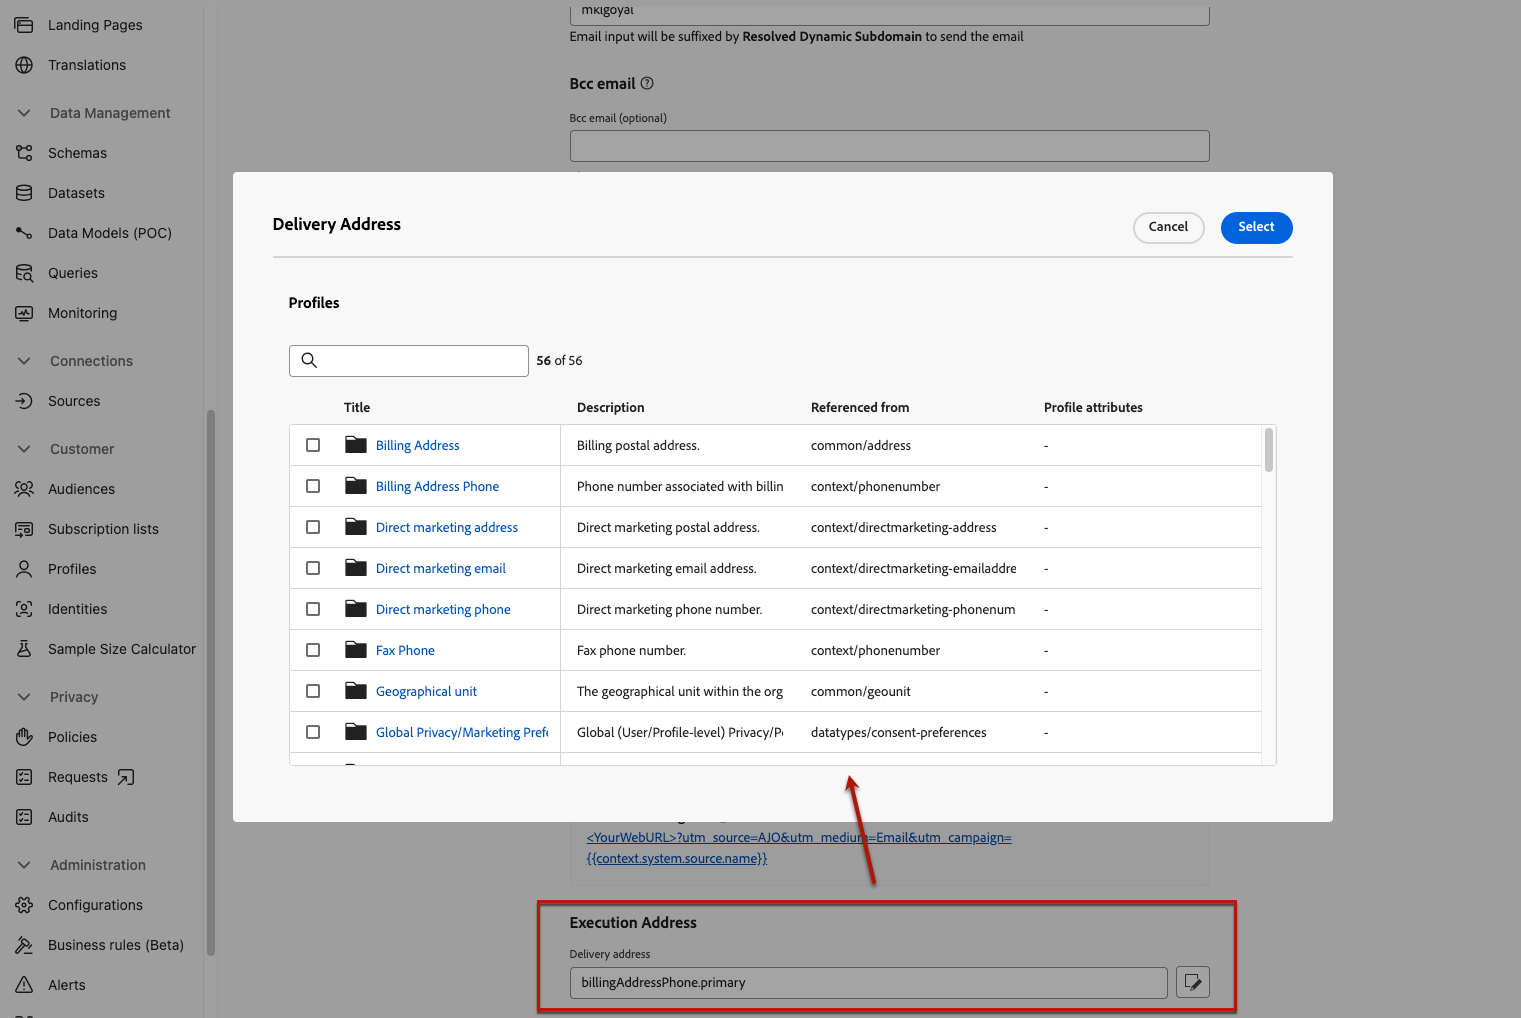
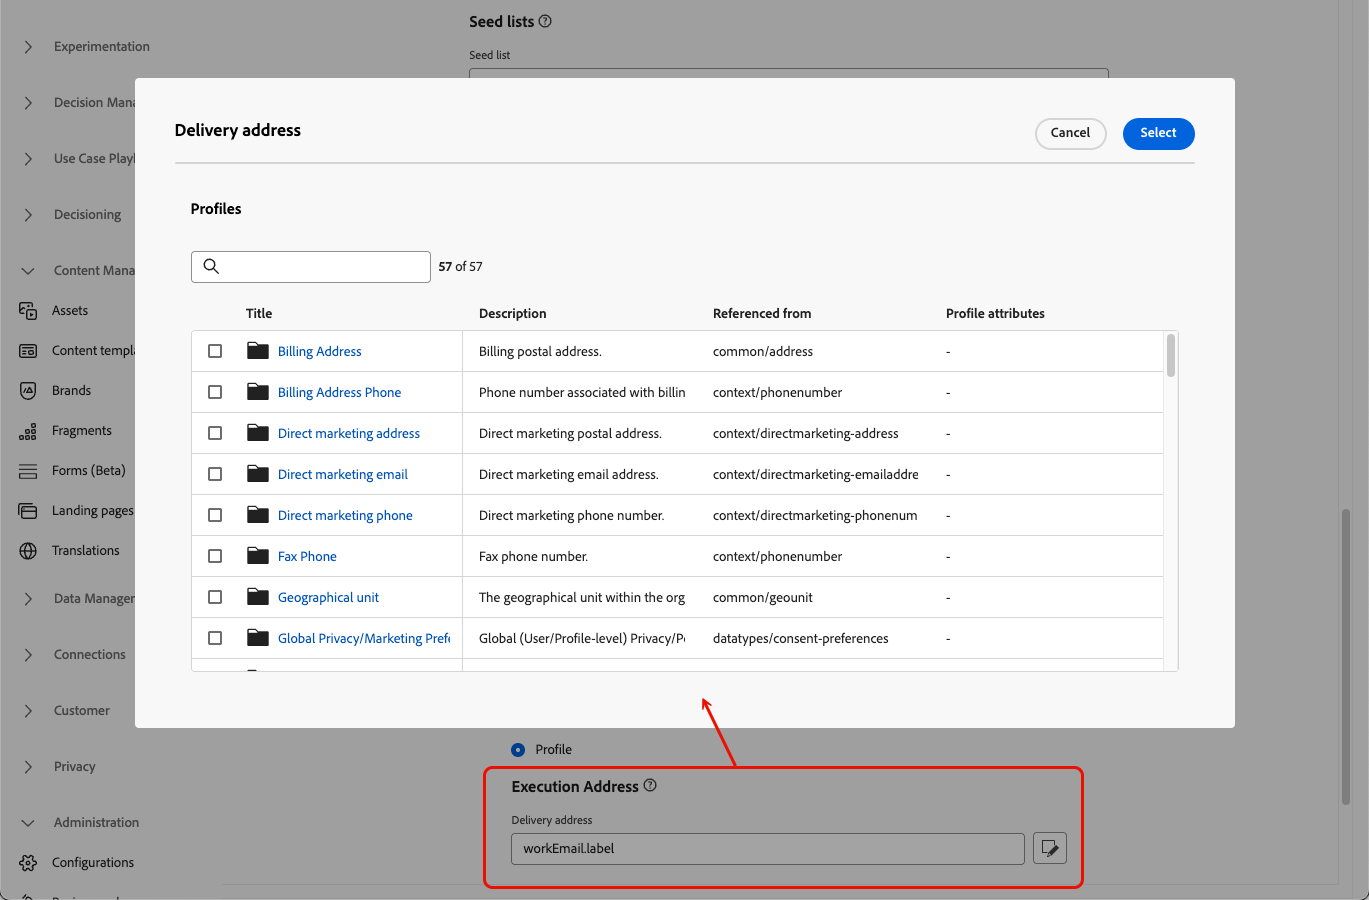
DOCAC-13526 - Execution fields Email + SMS updates

diff --git a/help/using/configuration/primary-email-addresses.md b/help/using/configuration/primary-email-addresses.md
@@ -30,6 +30,10 @@ To check the fields that are currently used by default, access the **[!UICONTROL
 
 ![](assets/primary-address-execution-fields.png)
 
+>[!NOTE]
+>
+>Execution fields are available for the Email and SMS channels.
+
 The current values are used for all deliveries at the sandbox level. You can update these fields if needed.
 
 In most cases, you will change an execution field globally and define a value that should be used for all email or SMS messages. <!--[Learn how](#admin-settings)-->
@@ -60,7 +64,7 @@ The execution field is updated and will now be used as the primary address.
     
 <!--1. You can also select an additional field to use as secondary email address. This allows you to determine which field to use if the primary field is empty for a profile. -->
 
-## Override the default execution field {#override-default-execution-address}
+## Override the default execution field in the journey parameters {#override-execution-address-journey}
 
 >[!CONTEXTUALHELP]
 >id="ajo_journey_execution_address"
@@ -68,24 +72,16 @@ The execution field is updated and will now be used as the primary address.
 >abstract="In some specific cases, you can override the default execution address. Use the **Enable parameter override** icon to the right of the field to define a custom primary address."
 >additional-url="https://experienceleague.adobe.com/en/docs/journey-optimizer/using/configuration/primary-email-addresses#journey-parameters" text="About the execution address"
 
-For specific use cases, you can override the execution field set globally and define a different value at the email configuration level or at the journey level.
+For specific use cases, you can override the execution field set globally and define a different value at the journey level.
 
 Overriding this value may be useful for example to:
 
 * Test an email. You can add your own email address: after you publish the journey, the email is sent to you.
 * Send an email to the subscribers of a list. Learn more in [this use case](../building-journeys/message-to-subscribers-uc.md).
 
-### In the email configuration
-
-You can change the default execution field set in the [general settings](#admin-settings) when defining an email channel configuration. [Learn more](../email/email-settings.md#execution-address)
-
-When an execution address is defined in the email configuration, it is used as the primary address and overrides the general setting at the sandbox level.
-
-### In the journey parameters {#journey-parameters}
-
 When adding an **[!UICONTROL Email]** or **[!UICONTROL SMS]** action to a [journey](../email/create-email.md#create-email-journey-campaign), the primary email address is displayed under the journey advanced parameters.
 
-In some specific contexts, you can override this value using the **[!UICONTROL Enable parameter override]** icon to the right of the field.
+Override this value using the **[!UICONTROL Enable parameter override]** icon to the right of the field.
 
 ![](assets/journey-enable-parameter-override.png)
 
@@ -93,4 +89,23 @@ In some specific contexts, you can override this value using the **[!UICONTROL E
 >
 >Email address override should only be used for specific use cases. Most of the time, you do not need to change the email address because the value defined as the primary address in the **[!UICONTROL Execution fields]** is the one that should be used.
 
+## Override the default execution field in the channel configuration {#override-execution-address-channel-config}
 
+>[!CONTEXTUALHELP]
+>id="ajo_email_config_execution_address"
+>title="Override the default execution address to use"
+>abstract="When several email addresses or phone numbers are available in the database (personal, professional, etc.), you can choose which one to prioritize for sending. The primary address is defined at the sandbox level, but here you can override the default setting for this specific channel configuration."
+
+You can change the default execution address for a specific email or SMS [channel configuration](channel-surfaces.md).
+
+To do this, go to the **[!UICONTROL Execution dimension]** section, and edit the field under **[!UICONTROL Execution Address]**.
+
+![](assets/sms-config-execution-address.png){width=85%}
+
+Then select an item from the list of available email-type XDM fields.
+
+![](assets/sms-config-execution-field.png)
+
+The execution field is updated and is then used as the primary address for the campaigns or journeys using this channel configuration. It overrides the [general setting](#admin-settings) defined at the sandbox level. 
+
+<!--[Learn more on the execution address in the email configuration ](../email/email-settings.md#execution-address)-->

diff --git a/help/using/sms/sms-configuration-surface.md b/help/using/sms/sms-configuration-surface.md
@@ -34,7 +34,7 @@ To create a channel configuration, follow these steps:
 
 1. Define the **SMS settings**.
 
-    ![](assets/sms-surface-settings.png)
+    ![](assets/sms-surface-settings.png){width=80%}
 
     Start by selecting the **[!UICONTROL SMS Type]** that will be sent with the configuration: **[!UICONTROL Transactional]** or **[!UICONTROL Marketing]**.
 
@@ -53,13 +53,17 @@ To create a channel configuration, follow these steps:
 
 1. Enter the **[!UICONTROL Sender number]** you want to use for your communications.
 
-1. Select your **[!UICONTROL SMS Execution Field]** to select the **[!UICONTROL Profile attribute]** associated with the profiles' phone numbers.
-
 1. If you want to use the URL shortening function in your SMS messages, select an item from the **[!UICONTROL Subdomain]** list.
 
     >[!NOTE]
     >
     >To be able to select a subdomain, make sure you have previously configured at least one SMS/MMS subdomain. [Learn how](sms-subdomains.md)
+
+1. In the **[!UICONTROL Execution dimension]** section, use the **[!UICONTROL SMS Execution Field]** to select amongst the profile attributes the phone number that you want to use in priority if several numbers are available in the database. [Learn more](../configuration/primary-email-addresses.md#override-execution-address-channel-config)
+
+    >[!NOTE]
+    >
+    >By default, [!DNL Journey Optimizer] uses the phone number specified in the [general settings](../configuration/primary-email-addresses.md) at the sandbox level. Updating this field overrides the default value for the journeys and campaigns using this configuration.
 
 1. Once all the parameters have been configured, click **[!UICONTROL Submit]** to confirm. You can also save the channel configuration as draft and resume its configuration later on.
 

diff --git a/help/using/email/email-settings.md b/help/using/email/email-settings.md
@@ -181,11 +181,6 @@ You can use **[!UICONTROL URL tracking parameters]** to measure the effectivenes
 
 ## Execution address {#execution-address}
 
->[!CONTEXTUALHELP]
->id="ajo_email_config_execution_address"
->title="Override the default execution address to use"
->abstract="When several email addresses are available in the database (personal, professional, etc.), you can choose which one to prioritize for sending. The primary address is defined at the sandbox level, but here you can override the default setting for this specific email configuration."
-
 When you target a profile, several email addresses may be available in the database (professional email address, personal email address, etc.).
 
 In that case, [!DNL Journey Optimizer] uses the address specified in the **[!UICONTROL Execution fields]** at the sandbox level to determine which email address to use from the profile service in priority. [Learn more](../configuration/primary-email-addresses.md)
@@ -196,8 +191,6 @@ In that case, [!DNL Journey Optimizer] uses the address specified in the **[!UIC
 
 However, you can change this default execution field at the email channel configuration level. You can then apply this setting to specific campaigns or journeys.
 
-To do this, edit the **[!UICONTROL Delivery address]** field and select an item from the list of available email-type XDM fields.
+To do this, edit the **[!UICONTROL Delivery address]** field and select an item from the list of available email-type XDM fields. [Learn more](../configuration/primary-email-addresses.md#override-execution-address-channel-config)
 
 ![](assets/email-config-delivery-address.png)
-
-The execution field is updated and is then used as the primary address. It overrides the general setting at the sandbox level.
